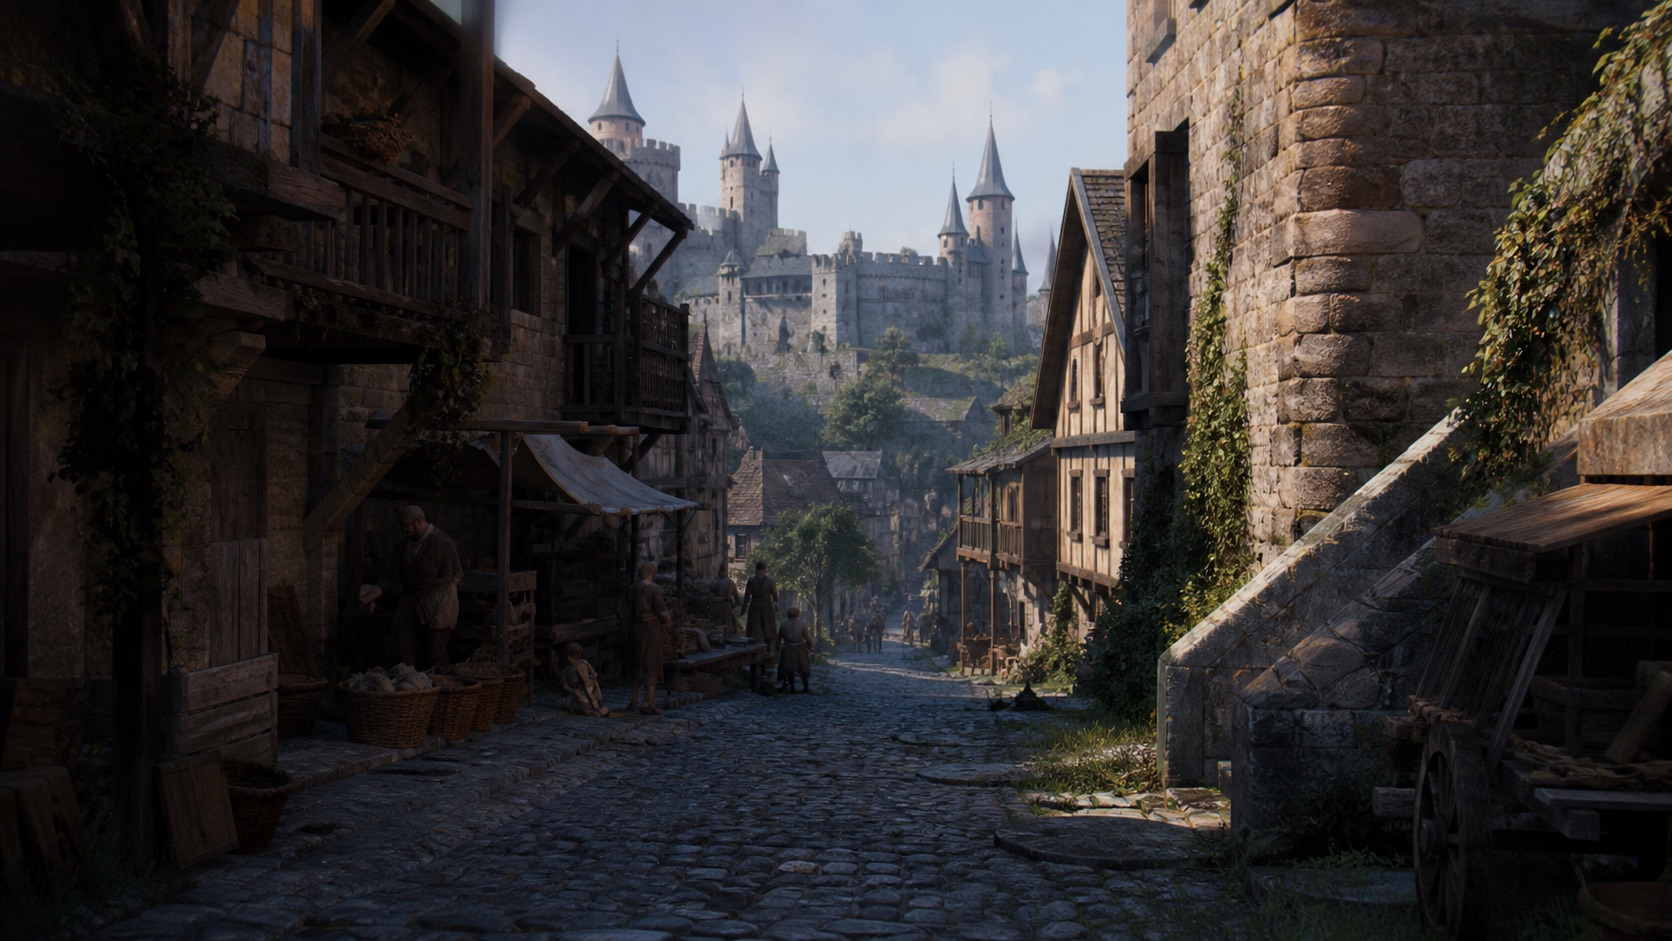
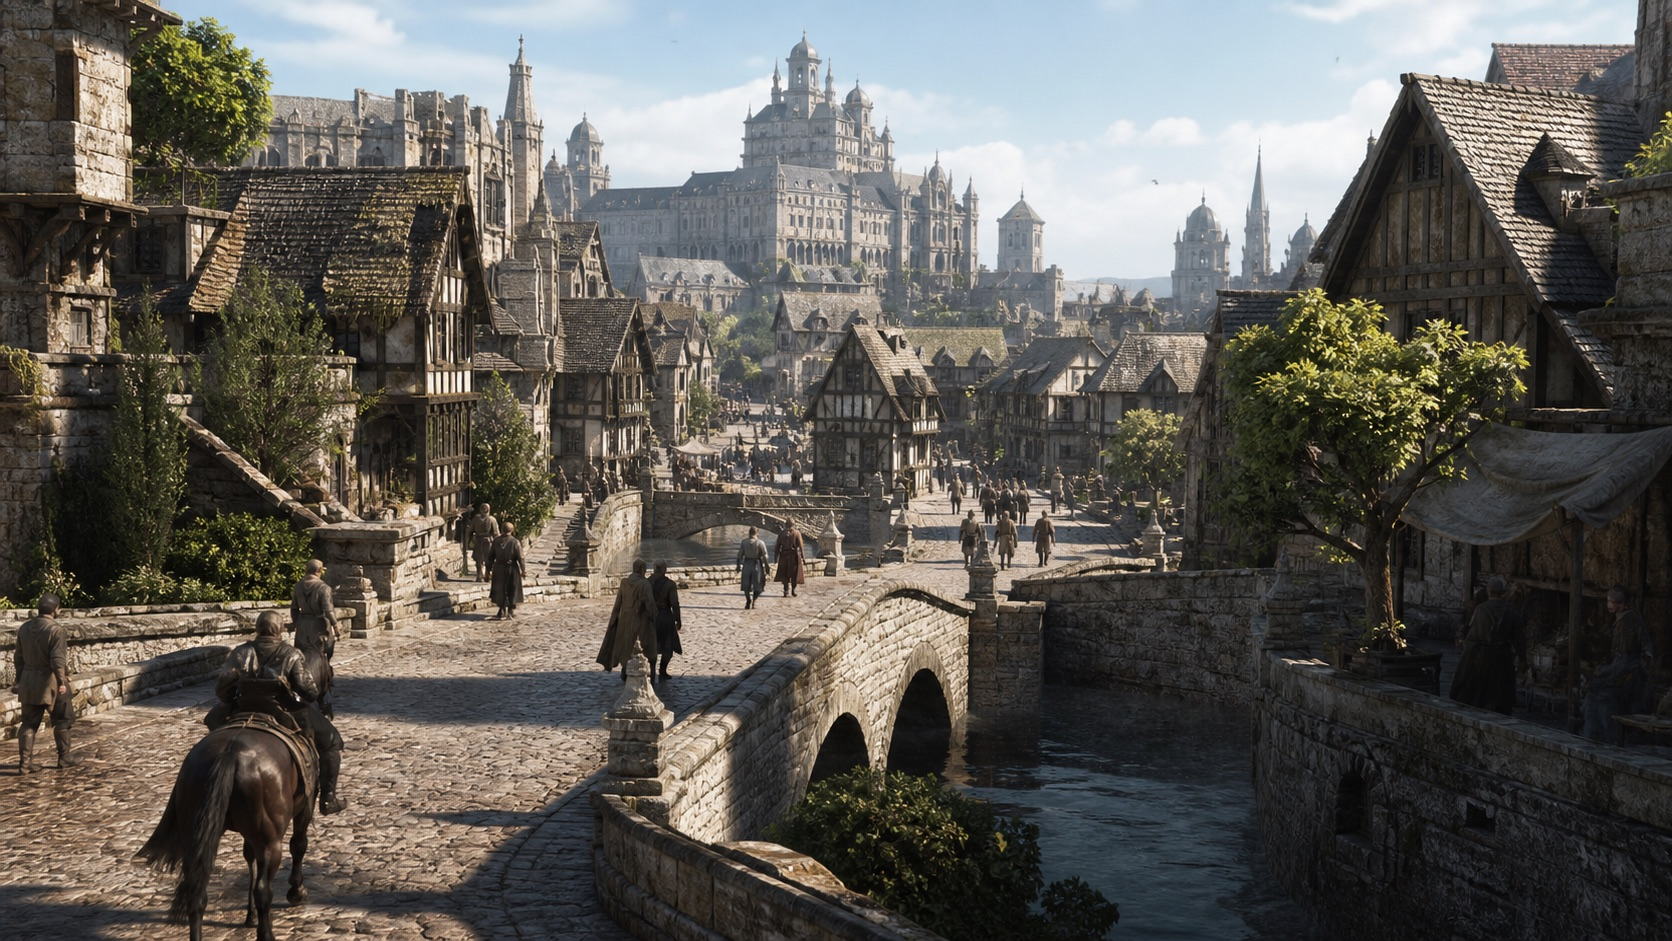
Rifinisce ambientazioni e audio montagna

diff --git a/src/App.jsx b/src/App.jsx
@@ -874,7 +874,7 @@ const COMP_ARMI_5E = ['Armi semplici', 'Armi da guerra', ...ARMI_5E.map((w) => w
 
 const STORAGE_KEY = 'scheda-interattiva:v1';
 const STORAGE_KEY_LEGACY = 'tavolo-dei-dadi:scheda:v1';
-const APP_VERSION = '2.55.0';
+const APP_VERSION = '2.56.0';
 
 function nuovoId() {
   return 'pg-' + Date.now().toString(36) + Math.random().toString(36).slice(2, 6);
@@ -1417,6 +1417,8 @@ export default function App() {
   const [volumeAudio, setVolumeAudio] = useState(() => Number(localStorage.getItem('scheda-interattiva:volume-audio') || 0.5));
   const [urlCustomAudio, setUrlCustomAudio] = useState(() => localStorage.getItem('scheda-interattiva:url-audio-custom') || '');
   const [mostraPannelloAudio, setMostraPannelloAudio] = useState(false);
+  const ambientazioneBtnRef = useRef(null);
+  const [posPannelloAudio, setPosPannelloAudio] = useState({ top: 56, left: 10 });
   const [effettiSonoriAttivi, setEffettiSonoriAttivi] = useState(() => localStorage.getItem('scheda-interattiva:effetti-sonori') !== 'false');
   // Muto rapido: azzera tutto l'audio (sottofondo + effetti) con un click, senza
   // toccare il volume impostato — così basta ri-cliccare per tornare com'era.
@@ -4112,9 +4114,20 @@ export default function App() {
             {lingua === 'it' ? '🇮🇹 IT' : '🇬🇧 EN'}
           </button>
           <button
+            ref={ambientazioneBtnRef}
             style={{ ...styles.modeButton(presetColori !== 'default'), fontSize: 14, padding: '3px 8px', display: 'flex', alignItems: 'center', gap: 4 }}
             title="Ambientazione: cambia insieme colori, sfondo e audio · click per aprire"
-            onClick={() => { sbloccaAudio(); setMostraPannelloAudio(!mostraPannelloAudio); }}
+            onClick={() => {
+              sbloccaAudio();
+              if (!mostraPannelloAudio) {
+                const r = ambientazioneBtnRef.current?.getBoundingClientRect();
+                if (r) setPosPannelloAudio({
+                  top: Math.min(window.innerHeight - 90, r.bottom + 5),
+                  left: Math.max(8, Math.min(window.innerWidth - 288, r.left)),
+                });
+              }
+              setMostraPannelloAudio(!mostraPannelloAudio);
+            }}
           >
             🎭 {PRESET_COLORI.find(p => p.id === presetColori)?.nome.split(' ')[0] || '🟤'}
           </button>
@@ -4280,15 +4293,15 @@ export default function App() {
           onClick={() => setMostraPannelloAudio(false)}
           style={{
             position: 'fixed', inset: 0, zIndex: 1400,
-            background: 'rgba(0,0,0,0.52)', backdropFilter: 'blur(2px)'
+            background: 'transparent'
           }}
         >
         <div
           onClick={(e) => e.stopPropagation()}
           style={{
-            position: 'fixed', top: 12, left: 12,
-            width: 'min(300px, calc(100vw - 24px))',
-            maxHeight: 'calc(100vh - 24px)',
+            position: 'fixed', top: posPannelloAudio.top, left: posPannelloAudio.left,
+            width: 'min(280px, calc(100vw - 16px))',
+            maxHeight: `calc(100vh - ${posPannelloAudio.top + 8}px)`,
             background: C.panel, border: `2px solid ${C.goldDark}`, borderRadius: 10,
             padding: '10px 12px', overflowY: 'auto',
             display: 'flex', flexDirection: 'column', gap: 8, fontSize: 13,
@@ -4349,7 +4362,7 @@ export default function App() {
           </div>
 
           {/* Ambientazioni: un click applica palette + sfondo + audio abbinato */}
-          <div style={{ display: 'grid', gridTemplateColumns: '1fr', gap: 6 }}>
+          <div style={{ display: 'grid', gridTemplateColumns: 'repeat(2, minmax(0, 1fr))', gap: 5 }}>
             {PRESET_COLORI.map((p) => {
               const attivo = presetColori === p.id;
               const conSuono = p.audio && p.audio !== 'spento';
@@ -4359,10 +4372,10 @@ export default function App() {
                   onClick={() => { sbloccaAudio(); setPresetColori(p.id); setAmbienteAudio(p.audio); }}
                   title={`${p.nome}${conSuono ? ' · con sottofondo' : ' · nessun sottofondo'}`}
                   style={{
-                    padding: '7px 10px', borderRadius: 6, border: `1px solid ${attivo ? C.goldDark : C.border}`,
+                    padding: '5px 7px', borderRadius: 6, border: `1px solid ${attivo ? C.goldDark : C.border}`,
                     background: attivo ? C.goldDark : C.panelLight, color: attivo ? '#ffffff' : C.ink,
                     cursor: 'pointer', fontWeight: attivo ? 'bold' : 'normal', textAlign: 'left',
-                    display: 'flex', flexDirection: 'column', gap: 2,
+                    display: 'flex', flexDirection: 'column', gap: 1, fontSize: 12,
                     transition: 'all 0.15s ease', boxShadow: attivo ? '0 2px 8px rgba(0,0,0,0.28)' : '0 1px 2px rgba(0,0,0,0.08)'
                   }}
                 >

diff --git a/src/utils/audioAmbiente.js b/src/utils/audioAmbiente.js
@@ -60,7 +60,9 @@ const BASE_CONDIVISA = {};
 const ESTENSIONE_FILE = { citta: 'ogg' };
 
 // Alcune ambientazioni hanno registrazioni dedicate per la modalità notturna.
-const AMBIENTI_FILE_NOTTE = new Set(['montagna']);
+// La montagna usa lo stesso vento naturale in entrambe le modalità: di notte
+// viene attenuato dall'app e arricchito soltanto da rarissimi lupi lontani.
+const AMBIENTI_FILE_NOTTE = new Set();
 
 // Volume della base rispetto al volume dell'ambiente (1 = invariato).
 // Città: il brusio di voci sta parecchio sotto, così a emergere sono i suoni
@@ -530,13 +532,17 @@ export function avviaAmbiente(id, volume = 0.5, urlCustom = '', notte = false) {
     if (id === 'montagna') {
       precaricaSfx();
       const programmaRichiamo = (primo = false) => {
-        const minimo = primo ? 14000 : notte ? 48000 : 35000;
-        const intervallo = primo ? 18000 : notte ? 50000 : 42000;
+        const minimo = primo ? 30000 : notte ? 90000 : 60000;
+        const intervallo = primo ? 40000 : notte ? 110000 : 80000;
         intervalTimer = setTimeout(() => {
           programmaRichiamo();
           const ctx = getAudioContext();
           if (!ctx || ctx.state !== 'running' || (typeof document !== 'undefined' && document.hidden)) return;
-          playSfx(notte ? 'lupo' : 'aquila', currentVolume * (notte ? 0.22 : 0.2));
+          // Una parte degli intervalli resta volutamente silenziosa: la fauna
+          // non deve sembrare un campione riprodotto a cadenza regolare.
+          if (Math.random() < (notte ? 0.58 : 0.42)) {
+            playSfx(notte ? 'lupo' : 'aquila', currentVolume * (notte ? 0.18 : 0.16));
+          }
         }, minimo + Math.random() * intervallo);
       };
       programmaRichiamo(true);

diff --git a/public/ambientazioni/CREDITS.md b/public/ambientazioni/CREDITS.md
@@ -1,8 +1,8 @@
 # Crediti immagini ambientazioni
 
-Dal rilascio 2.55 gli sfondi giorno/notte di Taverna, Città, Foresta, Mare,
-Tundra, Tempesta, Accampamento, Deserto e Tempio sono immagini originali
-generate con OpenAI. Mercato, Montagna e Dungeon non sono stati sostituiti.
+Dal rilascio 2.56 gli sfondi fotografici aggiornati sono immagini originali
+generate con OpenAI. Restano invariati Montagna e le varianti notturne di
+Mercato e Dungeon.
 L'elenco seguente resta come archivio delle immagini usate nelle versioni precedenti.
 
 Immagini di sfondo per le ambientazioni, da Wikimedia Commons. Ogni voce riporta licenza e autore; le licenze CC BY / CC BY-SA richiedono attribuzione (qui fornita).
